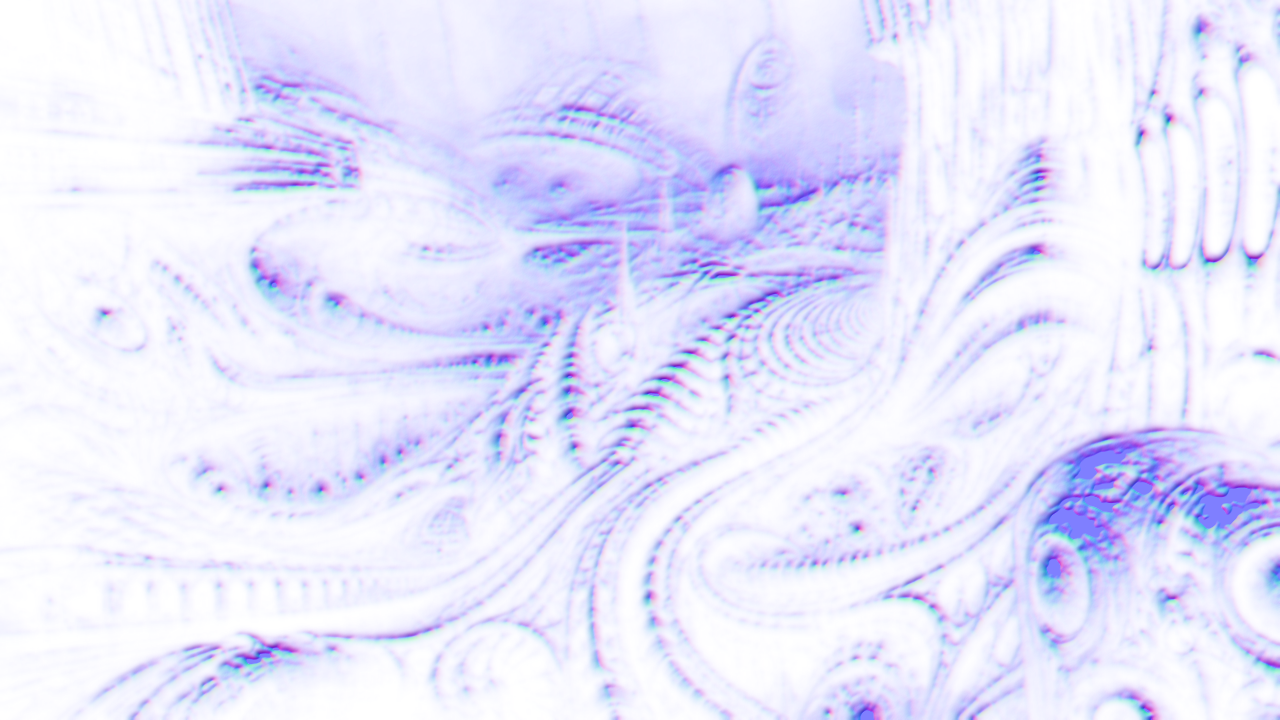
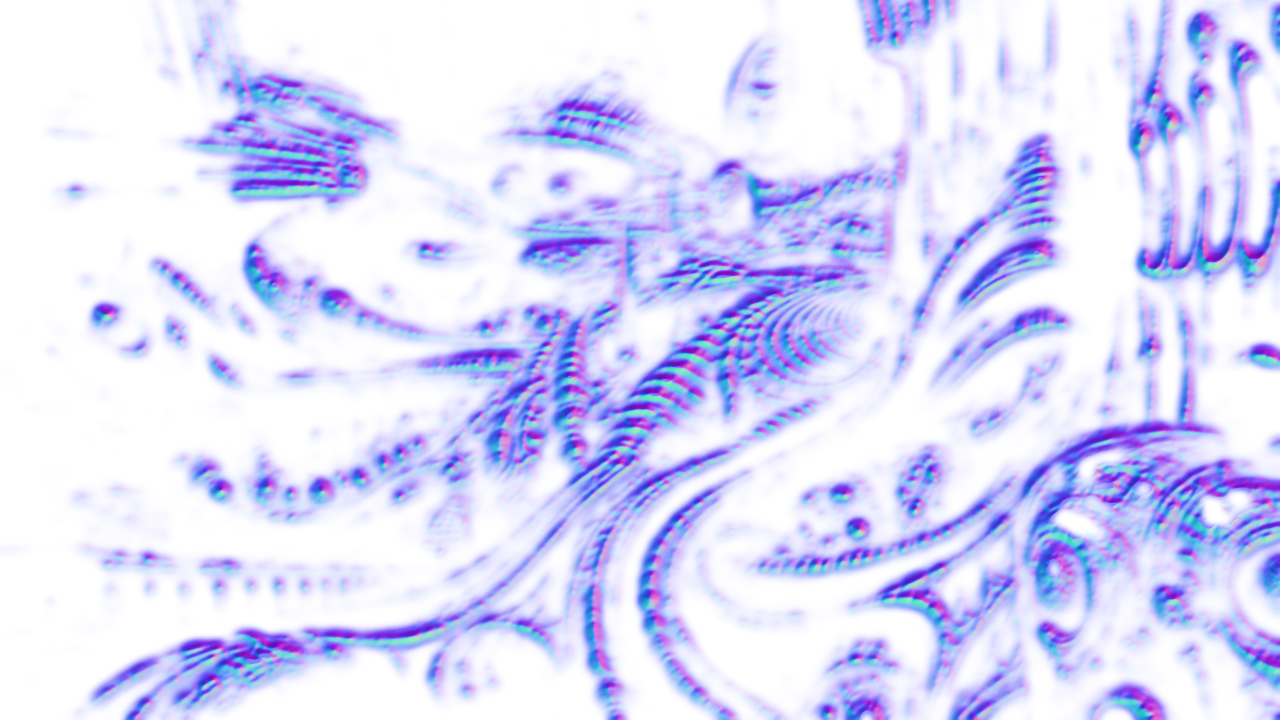
Bake the relief mask into the normal maps' alpha channel
The mask was computed in the shader from length(n.xy), which still cut hard
edges -- the maintainer reported one on the right flank of the Harvest face.
The slope field has one-pixel cliffs: where the height field pins to 0/1, and
where the art itself has a hard edge, |n.xy| collapses in a single pixel
(measured 0.68 -> 0.006 between two neighbouring pixels), so the mask flipped
1.000 -> 0.000 between two pixels. No smoothstep width can soften that, which
is why widening the ramp to (0.07, 0.58) did not remove the edge.

The tool now blurs the slope (sigma 5 px) before the smoothstep and stores the
result in the normal maps' alpha channel, which previously held an unused
height field; both shaders read the mask from there. Worst single-pixel step
in the mask drops from 1.000 to 0.18 overall and 0.98 to 0.08 on the Harvest
dome, where the old mask flipped 217 times and now flips zero times. Mean
relief is unchanged (0.202 -> 0.209) so the look and brightness hold: median
gain 1.10x, 7-14% of pixels (the ridges) above 1.5x.

render_lights() reads the baked mask from alpha too, so --preview still
reproduces the shader exactly. RELIEF_MIN/MAX/RELIEF_BLUR are grouped with the
map constants since they are now map-side, and the shader keeps the light,
gain and flash knobs.

diff --git a/tools/make_bg_normal_maps.py b/tools/make_bg_normal_maps.py
@@ -9,7 +9,14 @@ assets/<name>_normal.png, 1280x720 RGBA:
        Convention matches assets/depth_fog*.fs on the fullscreen quad:
        x right, y DOWN (v grows with image rows), z toward the viewer,
        encoded as rgb * 0.5 + 0.5. No green-channel flip.
-  A    the smoothed height field itself (0..1), for inspection/masking.
+  A    the relief mask the shaders multiply the lights by (0..1):
+       smoothstep(RELIEF_MIN, RELIEF_MAX) over a *blurred* slope. Baking it
+       matters: the height field pins to 0/1 where the art is dark, which
+       leaves perfectly flat plateaus, and the slope collapses to ~0 in a
+       single pixel at their border. Computing the mask from the raw slope in
+       the shader flips it 0<->1 across that one pixel -- a hard edge that
+       traces the art's contours (visible on the flanks of the Harvest
+       face). Blurring the slope first turns the cliff into a ramp.
 
 The height field is the two-scale gaussian of the art's luminance, so the
 bright biomechanical ridges become raised forms. Gradient strength is
@@ -50,10 +57,17 @@ BLUR_BROAD = 3.6       # px sigma for the broad forms
 DETAIL_WEIGHT = 0.35   # weight of the fine scale vs the broad one
 TARGET_SLOPE = 1.0     # p98 of |grad height| is scaled to this slope
 
+# Relief mask, baked into the normal maps' alpha channel (see normal_map()).
+# The slope is blurred first: where the height field pins to 0/1, or where the
+# art itself has a hard edge, the slope collapses in a single pixel, and a mask
+# taken from the raw slope flips 0<->1 there -- a hard edge that traces the
+# art's contours. RELIEF_BLUR turns those cliffs into ramps.
+RELIEF_MIN = 0.07    # slope below this is flat: stays at ambient
+RELIEF_MAX = 0.58    # slope above this is lit at full strength
+RELIEF_BLUR = 5.0    # px sigma the slope is blurred by before the mask
+
 # ---- moving-light constants; keep in sync with assets/depth_fog*.fs ----
-AMBIENT = 1.10
-RELIEF_MIN = 0.07    # |n.xy| below this is flat: stays at ambient
-RELIEF_MAX = 0.58    # |n.xy| above this is lit at full strength
+AMBIENT = 1.10       # what flat art is multiplied by
 LIGHT_HEIGHT = 0.35  # grazing light height, shared by all three lights
 FLASH_GAIN = 1.00    # thunder-spike lift; the decay envelope is C-side
 SPEC_POWER = 28.0
@@ -95,17 +109,43 @@ def normal_map(img: Image.Image) -> np.ndarray:
     s = TARGET_SLOPE / max(p, 1e-6)
     nx, ny, nz = -gx * s, -gy * s, np.ones_like(h)
     inv = 1.0 / np.sqrt(nx * nx + ny * ny + nz * nz)
+    # Alpha: the relief mask, computed from a blurred slope so that art edges
+    # -- which become one-pixel cliffs where the height field pins to 0/1 --
+    # ramp instead of flipping the mask in a single pixel.
+    relief = relief_mask(gaussian_blur(mag * s, RELIEF_BLUR))
     out = np.zeros(h.shape + (4,), dtype=np.uint8)
     out[..., 0] = np.clip((nx * inv * 0.5 + 0.5) * 255.0, 0, 255)
     out[..., 1] = np.clip((ny * inv * 0.5 + 0.5) * 255.0, 0, 255)
     out[..., 2] = np.clip((nz * inv * 0.5 + 0.5) * 255.0, 0, 255)
-    out[..., 3] = np.clip(h * 255.0, 0, 255)
+    out[..., 3] = np.clip(relief * 255.0, 0, 255)
     return out
 
 
-def relief_mask(nx: np.ndarray, ny: np.ndarray) -> np.ndarray:
-    """Smoothstep mask from RELIEF_MIN to RELIEF_MAX over the normal's tilt."""
-    slope = np.sqrt(nx * nx + ny * ny)
+def gaussian_blur(a: np.ndarray, sigma: float) -> np.ndarray:
+    """Separable gaussian blur with edge padding (numpy only: PIL's
+    GaussianBlur cannot handle float arrays)."""
+    if sigma <= 0.0:
+        return a
+    radius = max(1, int(round(sigma * 3.0)))
+    x = np.arange(-radius, radius + 1, dtype=np.float64)
+    kernel = np.exp(-0.5 * (x / sigma) ** 2)
+    kernel /= kernel.sum()
+    out = a
+    for axis in (0, 1):
+        pad = [(0, 0)] * out.ndim
+        pad[axis] = (radius, radius)
+        padded = np.pad(out, pad, mode="edge")
+        acc = np.zeros_like(out)
+        for i in range(kernel.size):
+            src = [slice(None)] * out.ndim
+            src[axis] = slice(i, i + out.shape[axis])
+            acc += kernel[i] * padded[tuple(src)]
+        out = acc
+    return out
+
+
+def relief_mask(slope: np.ndarray) -> np.ndarray:
+    """Smoothstep mask from RELIEF_MIN to RELIEF_MAX over a slope field."""
     ramp = np.clip((slope - RELIEF_MIN) / max(RELIEF_MAX - RELIEF_MIN, 1e-6), 0.0, 1.0)
     return ramp * ramp * (3.0 - 2.0 * ramp)
 
@@ -126,7 +166,7 @@ def render_lights(normal_rgba: np.ndarray, base: np.ndarray, t: float,
     nz = normal_rgba[..., 2] / 255.0 * 2.0 - 1.0
     inv = 1.0 / np.sqrt(nx * nx + ny * ny + nz * nz)
     nx, ny, nz = nx * inv, ny * inv, nz * inv
-    relief = relief_mask(nx, ny)
+    relief = normal_rgba[..., 3] / 255.0  # baked mask, as the shader samples it
     flash_gain = 1.0 + FLASH_GAIN * flash
     lit = np.full((HEIGHT, WIDTH, 3), AMBIENT * flash_gain, dtype=np.float64)
     for path, radius, gain, tint in LIGHTS:
